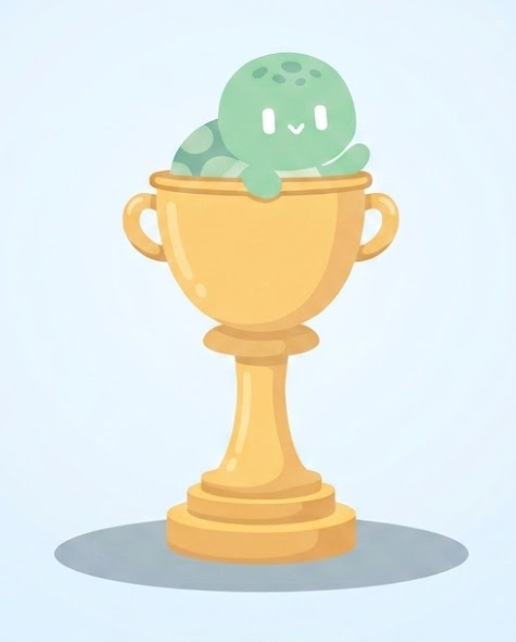
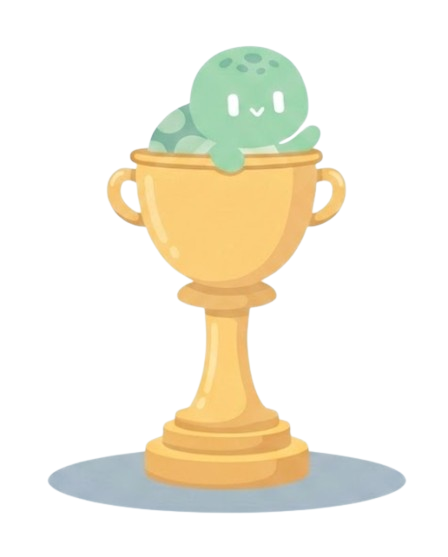
최종커밋

diff --git a/lib/ui/learn_screen.dart b/lib/ui/learn_screen.dart
@@ -333,7 +333,7 @@ class _Illustration extends StatelessWidget {
         children: [
           Positioned.fill(
             child: hasImage
-                ? Image.file(File(path), fit: BoxFit.cover)
+                ? Image.file(File(path), fit: BoxFit.contain)
                 : Column(
                     mainAxisAlignment: MainAxisAlignment.center,
                     children: [
@@ -609,65 +609,30 @@ class _Done extends StatelessWidget {
   }
 }
 
-/// 학습·복습할 게 없을 때: 배운 단원을 다시 볼 수 있는 목록.
+/// 오늘 복습·학습할 게 없을 때의 안내(단원 목록은 노출하지 않는다 —
+/// 복습 주기는 AI가 자동으로 관리하므로 사용자가 목록을 뒤질 필요가 없다).
 class _Notes extends StatelessWidget {
   const _Notes();
 
   @override
   Widget build(BuildContext context) {
-    final units = Services.instance.unitRepository.all();
-    if (units.isEmpty) {
-      return Center(
-        child: Column(
-          mainAxisAlignment: MainAxisAlignment.center,
-          children: const [
-            Icon(Icons.spa, size: 96, color: _midTeal),
-            SizedBox(height: 24),
-            Text('아직 학습할 내용이 없어요.', style: TextStyle(fontSize: 26)),
-            SizedBox(height: 12),
-            Text('먼저 강의를 녹음해 보세요.', style: TextStyle(fontSize: 20)),
-          ],
-        ),
-      );
-    }
-    return Padding(
-      padding: const EdgeInsets.all(20),
+    final hasUnits = Services.instance.unitRepository.all().isNotEmpty;
+    return Center(
       child: Column(
-        crossAxisAlignment: CrossAxisAlignment.stretch,
+        mainAxisAlignment: MainAxisAlignment.center,
         children: [
-          Row(
-            children: [
-              IconButton(
-                icon: const Icon(Icons.arrow_back_ios_new, color: _teal),
-                onPressed: () => Navigator.of(context).pop(),
-              ),
-              const Text('배운 내용 다시 보기',
-                  style: TextStyle(
-                      fontSize: 20, fontWeight: FontWeight.w800, color: _teal)),
-            ],
-          ),
+          const Icon(Icons.spa, size: 96, color: _midTeal),
+          const SizedBox(height: 24),
+          Text(hasUnits ? '오늘 복습·학습을 마쳤어요!' : '아직 학습할 내용이 없어요.',
+              style: const TextStyle(fontSize: 26)),
           const SizedBox(height: 12),
-          Expanded(
-            child: ListView.separated(
-              itemCount: units.length,
-              separatorBuilder: (_, _) => const SizedBox(height: 8),
-              itemBuilder: (_, i) {
-                final u = units[i];
-                final title =
-                    u.subjectName.isNotEmpty ? u.subjectName : '단원 ${u.unitNo}';
-                return Card(
-                  child: ExpansionTile(
-                    title: Text('$title (${u.unitNo}단원)',
-                        style: const TextStyle(fontSize: 20)),
-                    childrenPadding: const EdgeInsets.fromLTRB(16, 0, 16, 16),
-                    children: [
-                      Text(u.content,
-                          style: const TextStyle(fontSize: 18, height: 1.5)),
-                    ],
-                  ),
-                );
-              },
-            ),
+          Text(hasUnits ? '내일 또 만나요.' : '먼저 강의를 녹음해 보세요.',
+              style: const TextStyle(fontSize: 20)),
+          const SizedBox(height: 40),
+          FilledButton(
+            style: FilledButton.styleFrom(backgroundColor: _teal),
+            onPressed: () => Navigator.of(context).pop(),
+            child: const Text('확인', style: TextStyle(fontSize: 22)),
           ),
         ],
       ),

diff --git a/docs/projectStructure.md b/docs/projectStructure.md
@@ -1,0 +1,128 @@
+# BORDER 프로젝트 구조 (projectStructure.md)
+
+경계선지능 청년을 위한 학습 앱. **강의 자료를 받아 → AI가 쉬운글·복습 문항으로 정리 →
+간격 반복(3단계) 복습을 앱이 자동으로 관리**한다. 백엔드 서버 없이 전부 기기 로컬(Hive)에 저장한다.
+
+핵심 원칙 두 가지:
+1. **자료 1건 = 단원 1개** — AI가 내용을 개념 단위로 쪼개지 않는다.
+2. **복습 주기는 앱이 판단** — 사용자는 목록을 뒤지지 않고, "학습하기"만 누르면
+   오늘 마감된 복습 → 신규 학습 순서로 자동 진행된다.
+
+---
+
+## 1. 전체 흐름 (한 장 요약)
+
+```
+[입력]  녹음 / 음성파일 / PDF
+          │
+          ▼
+  RecordingController  ── 원본 로컬 저장(Lecture)
+          │  STT(음성) 또는 텍스트추출(PDF) → 원문(rawTranscript)
+          ▼
+  AiOrchestrator.run()  ── 원문 → 쉬운글 → 키워드카드 + OX/유사문제 + 쉬운글음성 + 삽화
+          │
+          ▼
+  UnitRepository.save(Unit)   ← [DB: units 박스]  ★학습 콘텐츠 확정
+          │
+          ▼
+[학습]  LearnController.start()
+          │  ① reviewRepo.all() 중 오늘 마감분(due) → 낮은 단계 우선
+          │  ② unitRepo.all() 중 아직 안 배운 신규 단원
+          ▼
+  화면 진행: (복습 1→2→3단계) ... → (신규 학습)
+          │
+          ├─ 신규 학습 완료 → Unit.learned=true 저장 + 1단계 복습 등록  [DB: units, reviews]
+          └─ 복습 응답     → ReviewEngine.apply() 결과 저장            [DB: reviews]
+```
+
+즉 **입력→정리는 `RecordingController`**, **학습→복습은 `LearnController`**가 담당하고,
+그 사이를 잇는 저장소가 `Unit`(콘텐츠)과 `ReviewSchedule`(복습 상태)이다.
+
+---
+
+## 2. 디렉터리 구조 (`lib/`)
+
+| 경로 | 역할 |
+|------|------|
+| `main.dart` | 진입점. `.env` 로드 → `LocalStore.init()` → `AppClock.load()` → `runApp` |
+| `app.dart` | 앱 루트 위젯 |
+| `core/` | `service_locator.dart`(전역 의존성 조립), `app_config.dart`(키 판별), `app_clock.dart`(데모 날짜 오프셋) |
+| `models/` | `unit.dart`, `review_schedule.dart`, `lecture.dart`, `keyword_card.dart`, `quiz.dart`, `enums.dart` — 전부 `toMap/fromMap` 자체 직렬화 |
+| `data/` | Hive 박스 접근 저장소: `local_store.dart`(박스 초기화) + `*_repository.dart` |
+| `controllers/` | `recording_controller.dart`(입력→정리), `learn_controller.dart`(학습→복습) |
+| `services/ai/` | `ai_orchestrator.dart` + `pipeline_stages.dart`(인터페이스) + `claude/` `openai/` `clova/` `mock/` 구현 |
+| `services/stt/` | Whisper STT + Mock 폴백 |
+| `services/review/` | `review_engine.dart` — 3단계 간격 반복 상태 머신(순수 로직) |
+| `services/files/` · `services/audio/` · `services/ocr/` | 파일 임포트, 녹음, 시간표 OCR |
+| `ui/` | 화면: `home_screen`, `recording_screen`, `learn_screen`, `timetable_*`, `splash_screen` |
+
+---
+
+## 3. 데이터베이스 (Hive, 로컬 전용)
+
+`LocalStore.init()`에서 박스를 연다. 모델은 `TypeAdapter` 대신 **`Map` 직렬화**로 보관해
+build_runner 의존을 피한다.
+
+| 박스 | 키 | 값 | 언제 쓰나 |
+|------|----|----|-----------|
+| `lectures` | lecture id | `Lecture` | 입력 원본·처리 상태. 녹음은 정리 후 원본 폐기 |
+| `units` | unit id (= lecture id) | `Unit` | **학습 콘텐츠**(쉬운글·키워드카드·문항·음성경로·학습완료여부) |
+| `reviews` | unitId | `ReviewSchedule` | **복습 상태**(단계·다음예정일·pending/completed) |
+| `timetable` | — | 시간표 | 녹음 시각 → 과목 매칭 |
+| `settings` | — | 데모 오프셋 등 | `clearAll()` 대상 아님 |
+
+### DB 반영 지점 (데이터가 실제로 들어가는 곳)
+- **콘텐츠 저장**: `_runPipeline` → `unitRepo.save(unit)` (`recording_controller.dart:197`).
+  중첩된 `keywordCards`/`quizzes`도 각 `toMap()`으로 함께 직렬화되어 저장됨(`unit.dart:78-79`).
+- **신규 학습 완료**: `learnController.completeLearn` → `unitRepo.save(learned=true)` +
+  `reviewRepo.save(engine.onLearned(...))` = 1단계 복습 등록(`learn_controller.dart:82`).
+- **복습 응답 반영**: `answerReview` → `reviewRepo.save(engine.apply(...))`(`learn_controller.dart:93`).
+- **읽기 반영**: `start()`가 매번 `reviewRepo.all()` / `unitRepo.all()`을 새로 읽으므로
+  저장 즉시 다음 세션에 반영됨(`learn_controller.dart:53`).
+
+Hive 박스는 디스크에 영속되고 앱 시작 시 다시 열리므로, 앱을 껐다 켜도 단원·복습 상태가 유지된다.
+
+---
+
+## 4. 3단계 복습 엔진 (`review_engine.dart`)
+
+순수 함수 모음(저장은 컨트롤러가 담당). 규칙:
+
+- **단원 학습 완료** → 1단계 등록, `dueDate = 완료시각 + 1일`.
+- **`due()`** — `pending` 이면서 `dueDate <= 오늘`인 것만, **낮은 단계 우선** 정렬.
+- **`apply(correct)`**
+  - 정답 & 마지막(3)단계 → `completed`.
+  - 정답 & 그 외 → `stage+1`, 다음날, `attemptCount=0`.
+  - 오답 → `stage-1`(1단계는 유지), 다음날, `attemptCount+1`.
+- 단계별 화면: 1=키워드+뜻 재인지, 2=OX, 3=유사문제(`learn_screen.dart` `_Step`).
+- `reviewInterval`(기본 1일)을 줄이면 데모에서 즉시 확인 가능.
+
+---
+
+## 5. AI 파이프라인 (`ai_orchestrator.dart`)
+
+원문 → `summarizer.summarize`(쉬운글) → `contentBuilder.build`(키워드+OX+유사문제)
+→ 동시에 `tts.synthesize`(쉬운글 음성) + `imageGenerator.illustrate`(키워드 삽화) → `Unit`.
+
+- 쉬운글이 비면 이후가 무의미하므로 **즉시 중단**하고 에러 표시(`ai_orchestrator.dart:42`).
+- 삽화 실패는 파이프라인을 막지 않고 그림 없는 카드로 진행(`_cardWithImage`).
+
+### 구현 선택 (키 유무로 자동 전환 — `service_locator.dart`)
+| 기능 | 키 있을 때 | 없을 때 |
+|------|-----------|---------|
+| 정리·문항·과목분류·시간표OCR | Claude(Sonnet 5) | Mock |
+| STT | OpenAI Whisper | Mock |
+| 쉬운글 음성(TTS) | OpenAI > CLOVA | Mock |
+| 키워드 삽화 | OpenAI 이미지 | 플레이스홀더 |
+
+키는 `--dart-define` 또는 `.env`로 주입. **키가 하나도 없어도 Mock 샘플로 끝까지 동작**한다.
+
+---
+
+## 6. 화면 (`ui/`)
+
+- `HomeScreen` — 학습하기 / 녹음하기 / 자료 넣기.
+- `RecordingScreen` — 녹음·업로드, 처리 상태 표시.
+- `LearnScreen` — `LearnController` 기반. 복습→신규 순서로 자동 진행하고,
+  오늘 할 게 없으면 목록 대신 "오늘 복습·학습을 마쳤어요" 안내만 표시(단원 목록 브라우징 없음).
+- `Timetable*` — 시간표 업로드·확인(녹음 과목 매칭용).
